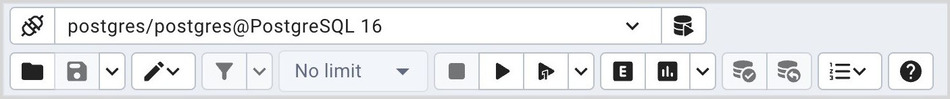
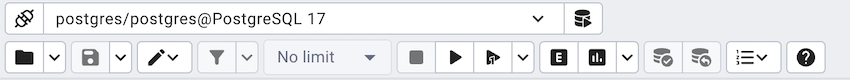
Added an option to open the file in a new tab within the query tool. #1235

Changed region(s): [[0.0, 0.0, 1.0, 0.9136], [0.0, 0.9877, 1.0, 1.0]]

diff --git a/web/pgadmin/tools/sqleditor/static/js/components/QueryToolComponent.jsx b/web/pgadmin/tools/sqleditor/static/js/components/QueryToolComponent.jsx
@@ -261,6 +261,7 @@ export default function QueryToolComponent({params, pgWindow, pgAdmin, selectedN
     }
   }, pollTime);
 
+
   let defaultLayout = {
     dockbox: {
       mode: 'vertical',
@@ -377,6 +378,10 @@ export default function QueryToolComponent({params, pgWindow, pgAdmin, selectedN
           eventBus.current.fireEvent(QUERY_TOOL_EVENTS.TRIGGER_EXECUTION, explainObject, macroSQL, executeCursor);
           let msg = `${selectedConn['server_name']}/${selectedConn['database_name']} - Database connected`;
           pgAdmin.Browser.notifier.success(_.escape(msg));
+        }
+        // Open the file if filename passed on the parameters.
+        if(qtState.params.fileName){
+          eventBus.current.fireEvent(QUERY_TOOL_EVENTS.LOAD_FILE, params.fileName, params.storage);
         }
       }).catch((error)=>{
         if(error.response?.request?.responseText?.search('Ticket expired') !== -1) {
@@ -577,14 +582,20 @@ export default function QueryToolComponent({params, pgWindow, pgAdmin, selectedN
       eventBus.current.fireEvent(QUERY_TOOL_EVENTS.EDITOR_LAST_FOCUS);
     };
     const events = [
-      [QUERY_TOOL_EVENTS.TRIGGER_LOAD_FILE, ()=>{
+      [QUERY_TOOL_EVENTS.TRIGGER_LOAD_FILE, (openInNewTab=false)=>{
         let fileParams = {
           'supported_types': ['sql', '*'], // file types allowed
-          'dialog_type': 'select_file', // open select file dialog
+          'dialog_type': 'open_file', // open select file dialog
         };
-        pgAdmin.Tools.FileManager.show(fileParams, (fileName, storage)=>{
-          eventBus.current.fireEvent(QUERY_TOOL_EVENTS.LOAD_FILE, fileName, storage);
-        }, null, modal);
+        if(openInNewTab){
+          pgAdmin.Tools.FileManager.show(fileParams, (fileName, storage)=>{
+            onNewQueryToolClick(null, fileName, storage);
+          }, null, modal, openInNewTab);
+        }else{
+          pgAdmin.Tools.FileManager.show(fileParams,(fileName, storage)=>{
+            eventBus.current.fireEvent(QUERY_TOOL_EVENTS.LOAD_FILE, fileName, storage);
+          }, null, modal);
+        }
       }],
       [QUERY_TOOL_EVENTS.TRIGGER_SAVE_FILE, (isSaveAs=false)=>{
         if(!isSaveAs && qtState.current_file) {
@@ -783,8 +794,7 @@ export default function QueryToolComponent({params, pgWindow, pgAdmin, selectedN
     });
   }, [qtState.preferences.browser, qtState.connection_list, qtState.params]);
 
-
-  const onNewQueryToolClick = ()=>{
+  const onNewQueryToolClick = (event, fileName, storage)=>{
     const transId = commonUtils.getRandomInt(1, 9999999);
     let selectedConn = _.find(qtState.connection_list, (c)=>c.is_selected);
     let parentData = {
@@ -807,6 +817,8 @@ export default function QueryToolComponent({params, pgWindow, pgAdmin, selectedN
     showQueryTool.launchQueryTool(pgWindow.pgAdmin.Tools.SQLEditor, transId, gridUrl, title, {
       user: selectedConn.user,
       role: selectedConn.role,
+      fileName: fileName,
+      storage: storage
     });
   };
 
@@ -982,6 +994,8 @@ QueryToolComponent.propTypes = {
     server_name: PropTypes.string,
     database_name: PropTypes.string,
     layout: PropTypes.string,
+    fileName: PropTypes.string,
+    storage: PropTypes.string,
   }),
   pgWindow: PropTypes.object.isRequired,
   pgAdmin: PropTypes.object.isRequired,

diff --git a/web/pgadmin/tools/sqleditor/static/js/components/sections/MainToolBar.jsx b/web/pgadmin/tools/sqleditor/static/js/components/sections/MainToolBar.jsx
@@ -74,6 +74,7 @@ export function MainToolBar({containerRef, onFilterClick, onManageMacros, onAddT
   const [checkedMenuItems, setCheckedMenuItems] = React.useState({});
   /* Menu button refs */
   const saveAsMenuRef = React.useRef(null);
+  const openInNewTabMenuRef = React.useRef(null);
   const editMenuRef = React.useRef(null);
   const autoCommitMenuRef = React.useRef(null);
   const explainMenuRef = React.useRef(null);
@@ -138,9 +139,9 @@ export function MainToolBar({containerRef, onFilterClick, onManageMacros, onAddT
 
   const openFile = useCallback(()=>{
     confirmDiscard(()=>{
-      eventBus.fireEvent(QUERY_TOOL_EVENTS.TRIGGER_LOAD_FILE);
+      eventBus.fireEvent(QUERY_TOOL_EVENTS.TRIGGER_LOAD_FILE, Boolean(checkedMenuItems['open_in_new_tab']));
     }, true);
-  }, [buttonsDisabled['save']]);
+  }, [buttonsDisabled['save'], checkedMenuItems]);
 
   const saveFile = useCallback((saveAs=false)=>{
     eventBus.fireEvent(QUERY_TOOL_EVENTS.TRIGGER_SAVE_FILE, saveAs);
@@ -337,6 +338,7 @@ export function MainToolBar({containerRef, onFilterClick, onManageMacros, onAddT
           explain_summary: queryToolPref.explain_summary,
           explain_settings: queryToolPref.explain_settings,
           explain_wal: queryToolPref.explain_wal,
+          open_in_new_tab: queryToolPref.open_in_new_tab,
         });
       }
     }
@@ -501,6 +503,11 @@ export function MainToolBar({containerRef, onFilterClick, onManageMacros, onAddT
         <PgButtonGroup size="small">
           <PgIconButton title={gettext('Open File')} icon={<FolderRoundedIcon />} disabled={!queryToolCtx.params.is_query_tool}
             shortcut={queryToolPref.btn_open_file} onClick={openFile} />
+          <PgIconButton title={gettext('Open in a new tab')} icon={<KeyboardArrowDownIcon />} splitButton disabled={!queryToolCtx.params.is_query_tool}
+            name="menu-openfileintab" ref={openInNewTabMenuRef} onClick={toggleMenu}
+          />
+        </PgButtonGroup>
+        <PgButtonGroup size="small">
           <PgIconButton title={gettext('Save File')} icon={<SaveRoundedIcon />}
             shortcut={queryToolPref.btn_save_file} disabled={buttonsDisabled['save'] || !queryToolCtx.params.is_query_tool}
             onClick={()=>{saveFile(false);}} />
@@ -563,12 +570,21 @@ export function MainToolBar({containerRef, onFilterClick, onManageMacros, onAddT
         </PgButtonGroup>
       </StyledBox>
       <PgMenu
+        anchorRef={openInNewTabMenuRef}
+        open={openMenuName=='menu-openfileintab'}
+        onClose={onMenuClose}
+        label={gettext('Open file Menu')}
+      >
+        <PgMenuItem hasCheck value="open_in_new_tab" checked={checkedMenuItems['open_in_new_tab']}
+          onClick={checkMenuClick}>{gettext('Open in a new tab?')}</PgMenuItem>
+      </PgMenu>
+      <PgMenu
         anchorRef={saveAsMenuRef}
         open={openMenuName=='menu-saveas'}
         onClose={onMenuClose}
-        label={gettext('File Menu')}
+        label={gettext('Save As')}
       >
-        <PgMenuItem onClick={()=>{saveFile(true);}}>{gettext('Save as')}</PgMenuItem>
+        <PgMenuItem onClick={()=>{saveFile(true);}}>{gettext('Save As')}</PgMenuItem>
       </PgMenu>
       <PgMenu
         anchorRef={editMenuRef}

diff --git a/web/pgadmin/misc/file_manager/static/js/components/FileManager.jsx b/web/pgadmin/misc/file_manager/static/js/components/FileManager.jsx
@@ -645,7 +645,8 @@ export default function FileManager({params, closeModal, onOK, onCancel, sharedS
     } else if(selectedRowIdx.current >= 0 && row) {
       let selectedfileType = row?.file_type;
       if(((selectedfileType == 'dir' || selectedfileType == 'drive') && fmUtilsObj.hasCapability('select_folder'))
-      || (selectedfileType != 'dir' && selectedfileType != 'drive' && fmUtilsObj.hasCapability('select_file'))) {
+      || (selectedfileType != 'dir' && selectedfileType != 'drive' && fmUtilsObj.hasCapability('select_file'))
+      || (selectedfileType != 'dir' && selectedfileType != 'drive' && fmUtilsObj.hasCapability('open_file'))) {
         disabled = false;
       }
     }
@@ -695,6 +696,8 @@ export default function FileManager({params, closeModal, onOK, onCancel, sharedS
     okBtnText = gettext('Select');
     if(params.dialog_type == 'create_file' || params.dialog_type == 'create_folder') {
       okBtnText = gettext('Create');
+    }else if(params.dialog_type == 'open_file'){
+      okBtnText = gettext('Open');
     }
   }
 

diff --git a/web/pgadmin/misc/file_manager/static/js/FileManagerModule.jsx b/web/pgadmin/misc/file_manager/static/js/FileManagerModule.jsx
@@ -61,7 +61,9 @@ export default class FileManagerModule {
     if(!title) {
       if(params.dialog_type == 'create_file') {
         title = gettext('Save File');
-      } else if(params.dialog_type == 'select_file') {
+      } else if(params.dialog_type == 'open_file'){
+        title = gettext('Open File');
+      }else if(params.dialog_type == 'select_file') {
         title = gettext('Select File');
       } else {
         title = gettext('Storage Manager');

diff --git a/web/pgadmin/tools/sqleditor/utils/query_tool_preferences.py b/web/pgadmin/tools/sqleditor/utils/query_tool_preferences.py
@@ -133,6 +133,16 @@ def register_query_tool_preferences(self):
         )
     )
 
+    self.open_file_in_new_tab = self.preference.register(
+        'Options', 'open_in_new_tab',
+        gettext("Open the file in a new tab?"), 'boolean',
+        True,
+        category_label=PREF_LABEL_OPTIONS,
+        help_str=gettext(
+            'Specifies whether or not to open the file in a new tab.'
+        )
+    )
+
     self.view_edit_promotion_warning = self.preference.register(
         'Options', 'view_edit_promotion_warning',
         gettext("Show View/Edit Data Promotion Warning?"),

diff --git a/web/pgadmin/misc/file_manager/__init__.py b/web/pgadmin/misc/file_manager/__init__.py
@@ -380,6 +380,12 @@ class Filemanager():
                 True,
                 gettext("Select Folder")
             ),
+            'open_file': (
+                ['open_file'],
+                True,
+                False,
+                gettext("Select File")
+            ),
             'create_file': (
                 ['select_file', 'rename', 'create'],
                 True,

diff --git a/docs/en_US/query_tool_toolbar.rst b/docs/en_US/query_tool_toolbar.rst
@@ -29,7 +29,8 @@ File Options
    +----------------------+---------------------------------------------------------------------------------------------------+----------------+
    | Icon                 | Behavior                                                                                          | Shortcut       |
    +======================+===================================================================================================+================+
-   | *Open File*          | Click the *Open File* icon to display a previously saved query in the SQL Editor.                 | Cmd/Ctrl + O   |
+   | *Open File*          | Click the *Open File* icon to display a previously saved query in the same tab of the SQL Editor. |                |
+   |                      | To open the file in a new tab, select *Open in a new tab?* option from the dropdown.              | Cmd/Ctrl + O   |
    +----------------------+---------------------------------------------------------------------------------------------------+----------------+
    | *Save File*          | Click the *Save* icon to perform a quick-save of a previously saved query, or to access the       | Cmd/Ctrl + S   |
    |                      | *Save* menu:                                                                                      |                |

diff --git a/docs/en_US/preferences.rst b/docs/en_US/preferences.rst
@@ -474,6 +474,9 @@ Use the fields on the *Options* panel to manage editor preferences.
   editor will prompt the user to saved unsaved data when exiting the data
   editor.
 
+* When the *Open the file in a new tab?* switch is set to *True*, the
+  editor will open the new file in new tab of the Query Tool.
+
 * When the *Prompt to save unsaved query changes?* switch is set to *True*, the
   editor will prompt the user to saved unsaved query modifications when exiting
   the Query Tool.
